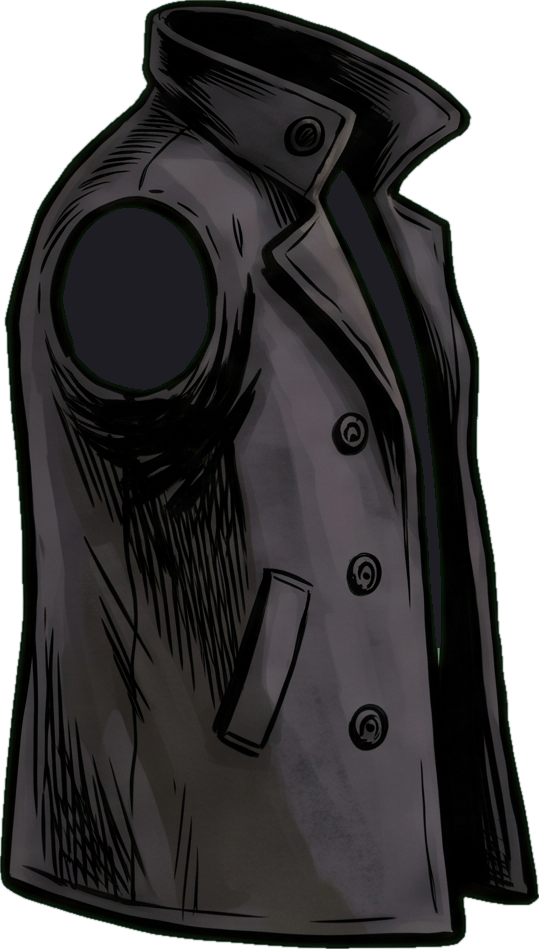
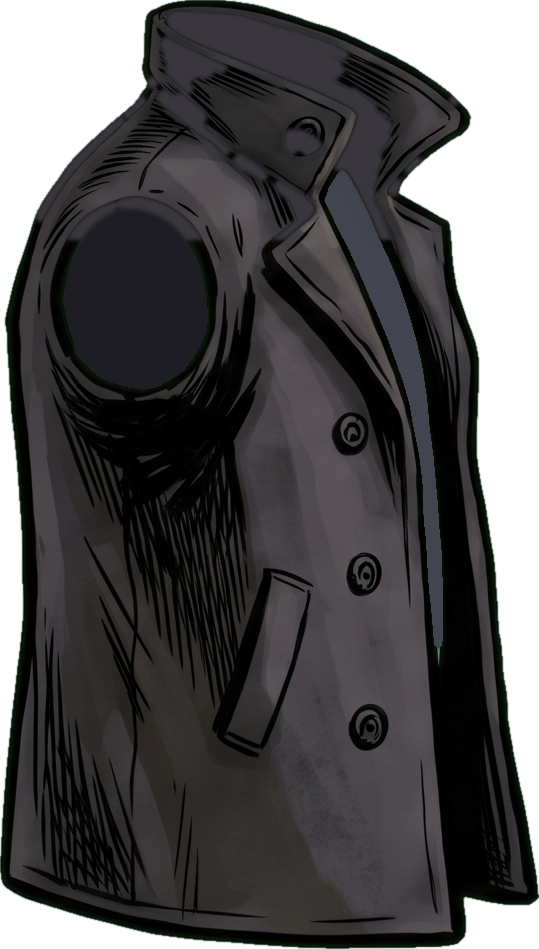
Eddie: arms to the body's scale, neck above the collar, lighter sweater; keyed run and walk (gait2), rule 39

diff --git a/gen/eddie_parts.py b/gen/eddie_parts.py
@@ -19,6 +19,17 @@ solid = t[..., 3] > 128
 hole = ndimage.binary_fill_holes(solid) & ~solid
 hole = ndimage.binary_dilation(hole, iterations=3)
 t[hole & (t[..., 3] < 250)] = (30, 29, 36, 255)
+# (user 24. 11.: "the sweater's collar is almost black, it reads as the head cut off - a little lighter") the sweater
+# between the lapels and the black inside of the raised collar lifted to a dark grey; the ink lines stay
+lab, n = ndimage.label(hole)
+for i in range(1, n + 1):
+    if ndimage.center_of_mass(lab == i)[1] > 280:
+        t[(lab == i) & (t[..., 3] > 0)] = (66, 68, 80, 255)
+lum = t[..., :3].astype(int).sum(axis=2)
+fill = ndimage.binary_dilation(ndimage.binary_erosion((lum < 75) & solid, iterations=5), iterations=6) & (lum < 110) & solid
+fill[240:] = False
+soft = ndimage.gaussian_filter(fill.astype(float), 2.0)[..., None]
+t[..., :3] = (t[..., :3] * (1 - soft) + np.array([58, 56, 62]) * soft).astype(np.uint8)
 save("torso", Image.fromarray(t))
 # head with the hat on: the hat levelled a little and set on the hairline
 head, hat = P[4][2], P[6][2].rotate(-9, expand=True, resample=Image.BICUBIC)

diff --git a/.claude/skills/ashes-znalosti/SKILL.md b/.claude/skills/ashes-znalosti/SKILL.md
@@ -128,3 +128,4 @@ Covers what is in [[HANDOFF|HANDOFF.md]] up to 2026-11-16 (5). Exact current val
 36. **Gemini Neon feedback round (24. 11., feedback/gemini-neon-2026-11-24.md)**: the user agreed the gunsmith is of little use ("Max Payne had none and it was great") and the doorways too. Its points are tried FIRST in the playground only (main.gd `_lab()` = sandbox 2: heavier puppet `Puppet.heavy`, fainter smaller stick and bigger captions `hud.trial`, darker fronts CITY_TONE 0.66, thinner contour, no perks, a dive's slowed time disarms, CLINK thrown clear of the head); into the whole game only after the user played it and said so. Neon judged stills: much of what it asked for was already there (dive slows time, slow-time vignette, recoil lean) - check the code before building a "missing" thing.
 37. **The gun comes down when there is nobody to shoot** (user 24. 11.: "he holds the gun arm out stiff all the time... after a while he should bring it to his body; a calm scene walked slowly will read better"): puppet.gd `at_ease`/`ease` - 1.5 s on the ground with no man up within 2400 px and no shot, the gun hand drops by the thigh and both arms swing with the walk; a shot snaps it up before the muzzle is read (main.gd `_ease_t`, `_fire`). The whole game, both heroes.
 38. **New characters, one by one (user 24. 11.: "regenerate everything... every important or playable character, bosses too, its own look, closer to the comic"; look = comic panel art/cut/76)**: plan postavy/plan-novych-postav.md. Per character: design sheet from Gemini -> the USER approves -> parts sheet on flat green (leg, torso without arms and head, bare head, hat, upper arm, forearm with fist) -> gen/char_cut.py + a `<name>_parts.py` -> art/<name>2/ -> its own cfg in main.gd (joints in each picture's pixels, own ppm per part) -> `--test=gait [--close]` -> the user approves before animating. Pilot done: Eddie (`_eddie2_cfg`, art/eddie2, design art_src 362, parts 363; `--old-eddie` = Frank's body under his head). Gemini: SHORT prompts with the image tool on draw; long detailed ones come back as a written prompt. A grittier style request aged Eddie to 55 ("zombie", user) - ask for the young face explicitly. Knees: LEGS thigh 0.42 / shin 0.43 for every figure (the leg drawing has them equal).
+39. **A new figure is checked against its approved design before the user sees it (user 24. 11., angry: "the scale of the arms and the body does not fit, and the head is behind the coat again - learn from it")**: (a) every part's `ppm` is set from its THICKNESS in metres (sleeve at the elbow = forearm at the elbow, shoulder cap covers the armhole), never from the bone length alone - a parts sheet draws the limbs at other scales than the torso; the joint points are then moved to get the length. (b) The head sits IN FRONT with the neck showing out of the collar and the chin clear of it; a collar or coat laid over the jaw reads as a head sunk in the body (the same fault as the old figures). (c) Lay the standing figure beside the design at the same height (`_shots/cmp.png` way: crop of art_src + `--test=gait` frames 16/17) and compare head, neck, sleeve, torso, legs. **Gait (cfg `gait2`, puppet.gd RUN_KEYS / WALK_KEYS)**: keyed foot paths against the hip, the run on the ground 35 % of the cycle (a flight phase), the walk 62 % with an all but straight planted leg; the cadence comes from the ground really covered (`_gs` from `_vel`), so a planted foot does not slide; arms pump in the run with the gun by the ribs when at ease, hang and swing in the walk. `pelvis` colour in the cfg fills the seat and the crook of a folded knee under a short coat. Only Eddie has it so far.

diff --git a/HANDOFF.md b/HANDOFF.md
@@ -602,3 +602,4 @@ Read `.claude/skills/ashes-znalosti/SKILL.md` first (stable rules + topic index,
 - (141) 24. 11. User approved Eddie design C (art_src 362, left figure = proportions). Step 2 started: gen/char_template.py (grey part shapes on green, 2752x1536). BLOCKED: Gemini (4 Hydrogen, image tool on) answered three times with a text prompt instead of an image ("no image tool in this environment"); the two sheets today came only on a second or third message. Not done: parts sheet, cut script, rig. Idea found on the way, NOT applied: LEGS thigh/shin b points to (185.9,472.1)/(98.5,488.3) put the knee right with no new art (the leg drawing already has equal thigh and shin).
 - (142) 24. 11. Knee fix APPLIED for every figure (main.gd LEGS: thigh 0.42, shin 0.43, same leg length), all bots through, deployed. User likes the portrait of design C (art_src 362, right): Eddie's binding face, later the HUD portrait too. Gemini still answers with text instead of an image (5 tries, two chats): parts sheet waits. Next without art: the run with the gun at the body, a real run cycle (playground).
 - (143) 24. 11. Eddie's own body is in the game (rule 38): art/eddie2 from Gemini parts sheet 363, gen/char_cut.py + gen/eddie_parts.py, main.gd _eddie2_cfg; prologue and grey prologue bots through. Still the old motion (walk/run), old HUD portrait. Known: a small pale diamond at the coat hem in one run frame; no open-hand forearm; far arm same drawing. NEXT: user looks; then the run (gun at the body, real run cycle), then Frank and the bosses.
+- (144) 24. 11. User on new Eddie: sweater collar too black, arms out of scale with the body, head behind the coat ("learn from it") -> rule 39. Fixed: sweater and collar inside lifted (gen/eddie_parts.py), uarm ppm 1819->1480 / farm 1281->1450 with joints moved, head anchor so the neck shows. "Start the animations": gait2 for Eddie (keyed run with a flight phase, upright walk, cadence from real speed, pumping arms, pelvis and knee-crook fill). `--test=gait --ease` shows the run at ease. NOT yet: mocap (not needed so far), aim/shot/reload upper body, jump/dive/slide clips for the new body, HUD portrait, hat as its own part. WAITS: the user looks at the run and the walk.

diff --git a/postavy/plan-novych-postav.md b/postavy/plan-novych-postav.md
@@ -85,3 +85,8 @@ než Frank, cigareta, viditelný krk. Proporce lehce přehnané (delší nohy, o
 - Šablona `gen/char_template.py` se nepoužila: Gemini na dlouhá zadání se šablonou odpovídal jen textem; zabralo krátké zadání bez šablony, klouby jsem odečetl z mřížky.
 - Zbývá u Eddieho: krok 3 (běh a chůze z nasnímaného pohybu, zbraň u těla), portrét v HUD, otevřená dlaň, klobouk jako samostatný díl (aby mohl spadnout).
 
+## Stav 24. 11. noc
+- Výtky uživatele k první verzi: ruce v jiném měřítku než trup, hlava za kabátem, svetr skoro černý. Opraveno, poučení = pravidlo 39 (měřítko dílů podle tloušťky v metrech, hlava před límcem, srovnání s návrhem vedle sebe před odesláním).
+- Krok 3 hotov bez mocapu: `gait2` v puppet.gd (klíčovaná dráha chodidla proti kyčli, běh s letovou fází, vzpřímená chůze, kadence ze skutečné rychlosti, pumpující ruce). Mocap zatím nebyl potřeba.
+- Další: krok 4 (míření, výstřel, přebití na novém těle), krok 5 (skok, rybička, skluz, krytí).
+
